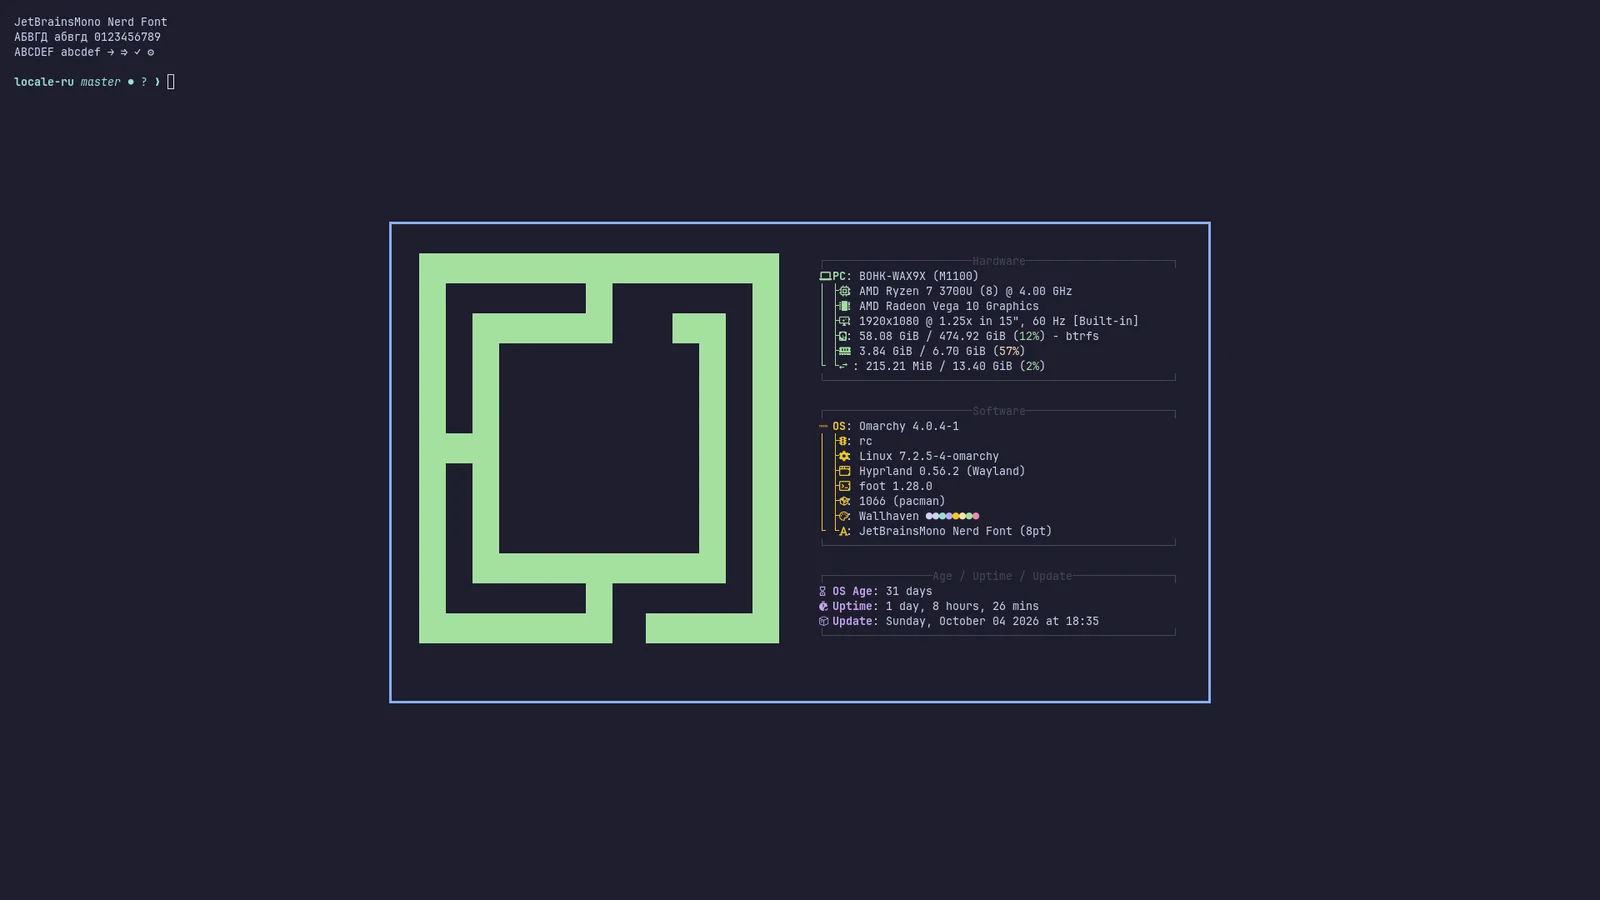
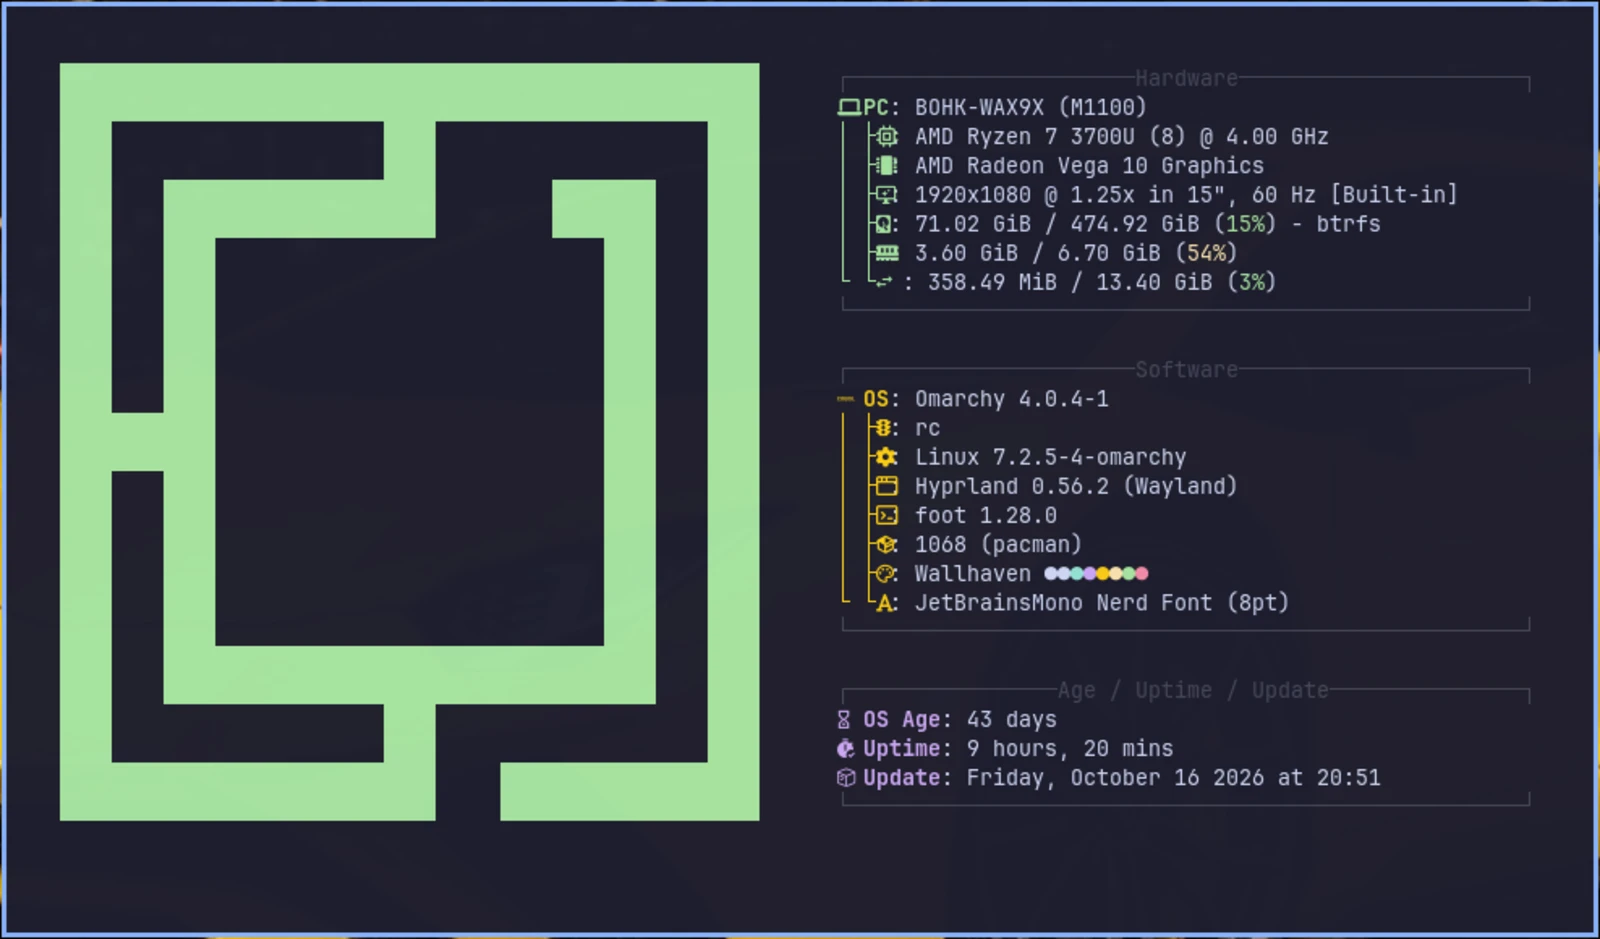
manual/ru: reshoot 6 mismatched screenshots, link 11 more to ../images
The tmux layout captures were placeholders (panes echoing /tmp/tdlshot) and
the gaming/fourway-tiling ones cannot be reproduced here, so those now use
upstream's own snapshots via ../images/… — same treatment as the 17 byte
identical duplicates. notice-*, branding-about, prompt and text-extraction
were reshot on the current quattro UI with personal data masked.

diff --git a/manual/ru/26-gaming.md b/manual/ru/26-gaming.md
@@ -14,7 +14,7 @@ Omarchy создан не только для _пРоДуКтИвНоСтИ_, н
 
 Учтите, что Steam может запускаться 10–20 секунд и не даёт никакой визуальной обратной связи о том, что он загружается.
 
- ![gaming-steam](images/gaming-steam.webp)
+ ![gaming-steam](../images/gaming-steam.webp)
 
 ## RetroArch
 
@@ -30,7 +30,7 @@ RetroArch полностью преднастроен с красивым шей
 
 Вы также можете дать любимой игре собственную запись в средстве запуска приложений с помощью _Установить > Gaming > RetroArch Game Launcher_, который позволяет выбрать ядро и ROM и прыгнуть прямо в игру из `Super + Space`.
 
- ![gaming-retroarch](images/gaming-retroarch.webp)
+ ![gaming-retroarch](../images/gaming-retroarch.webp)
 
 ## Xbox Cloud Gaming
 
@@ -38,13 +38,13 @@ RetroArch полностью преднастроен с красивым шей
 
 Если у вас уже есть Xbox Game Pass, это надёжный способ играть в Fortnite и другие игры, которые нельзя запустить на Linux нативно.
 
- ![gaming-xbox-cloud](images/gaming-xbox-cloud.webp)
+ ![gaming-xbox-cloud](../images/gaming-xbox-cloud.webp)
 
 ## NVIDIA GeForce NOW
 
 Установите сервис облачных игр [NVIDIA GeForce NOW](https://www.nvidia.com/en-us/geforce-now/), выбрав _Установить > Gaming > NVIDIA GeForce NOW_ в меню Omarchy (`Super + Space`). Ещё один отличный способ играть в игры, недоступные на Linux нативно.
 
- ![gaming-geforce-now](images/gaming-geforce-now.webp)
+ ![gaming-geforce-now](../images/gaming-geforce-now.webp)
 
 ## Minecraft
 
@@ -52,7 +52,7 @@ RetroArch полностью преднастроен с красивым шей
 
 Как и со Steam, учтите, что после входа или запуска может пройти некоторое время, прежде чем появится следующий экран, и вы не получите никакой обратной связи, пока ждёте.
 
- ![gaming-minecraft](images/gaming-minecraft.webp)
+ ![gaming-minecraft](../images/gaming-minecraft.webp)
 
 ## Контроллеры Xbox
 
@@ -70,7 +70,7 @@ RetroArch полностью преднастроен с красивым шей
 
 Установите [Battle.net](https://eu.shop.battle.net/en-us), выбрав _Установить > Gaming > Battle.net_ в меню Omarchy (`Super + Space`). Это даёт вам такие игры, как Diablo, Starcraft и World of Warcraft, как отдельную установку, работающую под GE-Proton, — без Steam, Lutris или Heroic.
 
- ![gaming-starcraft](images/gaming-starcraft.webp)
+ ![gaming-starcraft](../images/gaming-starcraft.webp)
 
 ## Lutris (игры для Windows)
 

diff --git a/manual/ru/04-navigation.md b/manual/ru/04-navigation.md
@@ -14,7 +14,7 @@
 
 Теперь попробуйте `Super + Ctrl + T`, чтобы запустить монитор активности. Он появится как плавающее окно. Вы можете сделать его плиточным с помощью `Super + T` (и нажать это ещё раз, чтобы снова сделать его плавающим). Теперь нажмите `Super + Shift + F`, чтобы открыть файловый менеджер. У вас получится аккуратная раскладка на четыре окна:
 
- ![navigation-fourway-tiling](images/navigation-fourway-tiling.webp)
+ ![navigation-fourway-tiling](../images/navigation-fourway-tiling.webp)
 
 Между окнами вы переключаетесь на то, которое хотите сделать активным, с помощью `Super + Arrow`. Это переключит фокус и переместит курсор в центр нового приложения.
 
